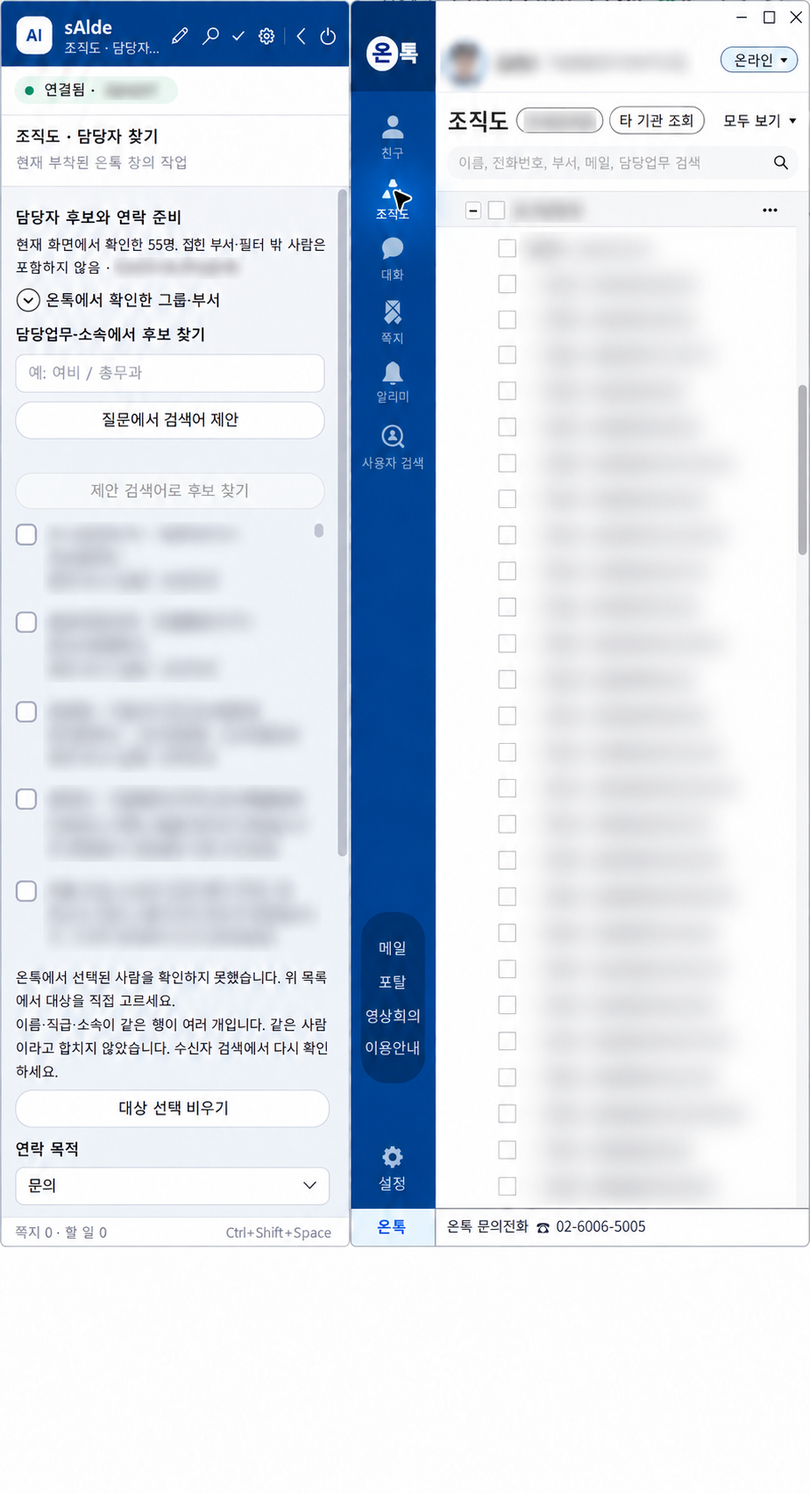
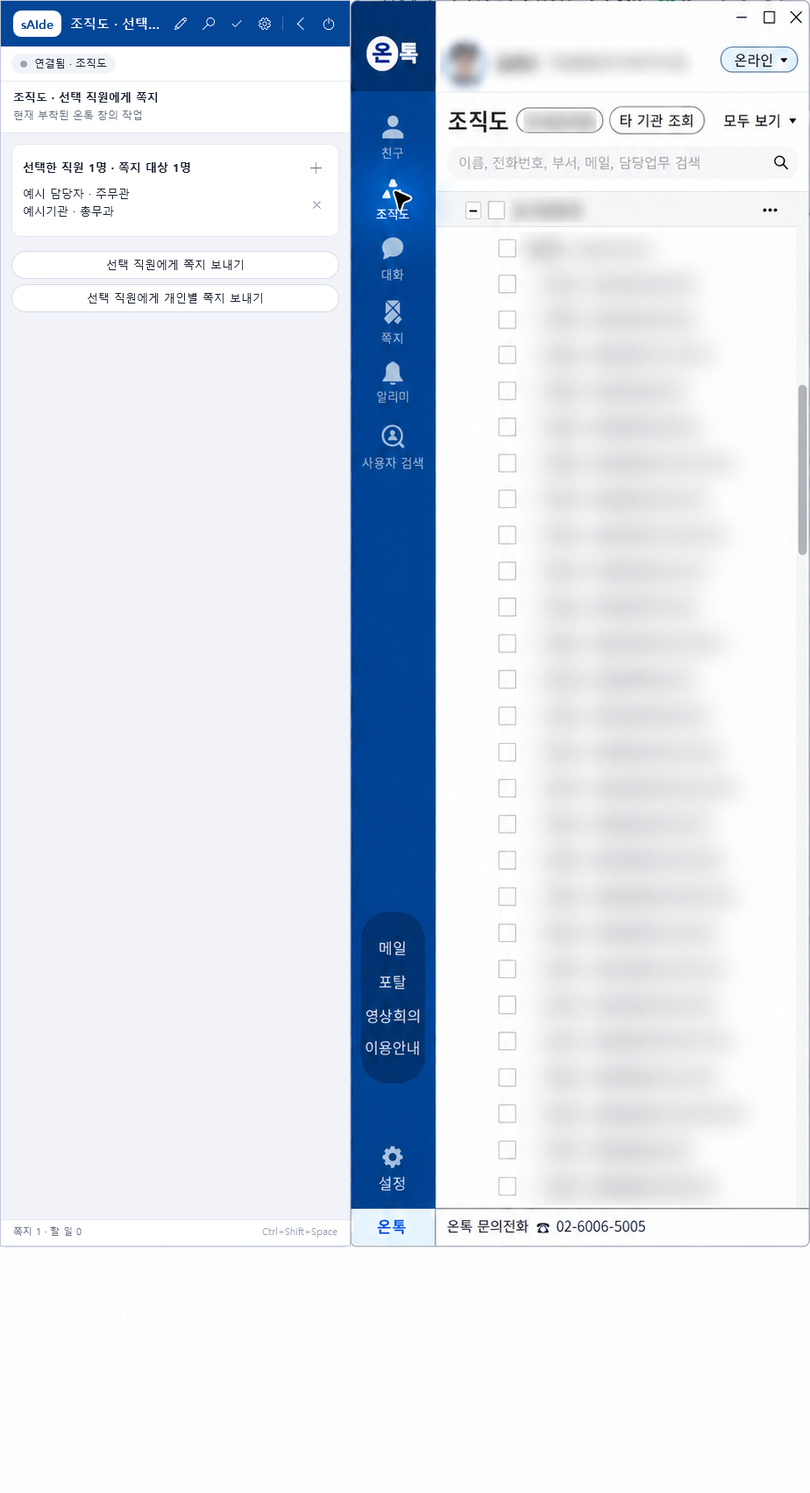
문서 및 스크린샷 최신화 (조직도 쪽지 및 개인화 작업 화면 반영, Home 개편 및 수치 현행화)

Changed region(s): [[0.0, 0.0, 0.4545, 0.8408], [0.2727, 0.8096, 0.3939, 0.8408], [0.2121, 0.2803, 0.2424, 0.3114]]

diff --git a/src/OnTalk.Sidecar.App/PanelWindow.xaml b/src/OnTalk.Sidecar.App/PanelWindow.xaml
@@ -1,7 +1,7 @@
 <Window x:Class="OnTalk.Sidecar.App.PanelWindow"
         xmlns="http://schemas.microsoft.com/winfx/2006/xaml/presentation"
         xmlns:x="http://schemas.microsoft.com/winfx/2006/xaml"
-        Title="onTalk.sAIde" Width="360" Height="640" MinWidth="44" MinHeight="180"
+        Title="onTalk.sAIde" Width="360" Height="640" MinWidth="64" MinHeight="180"
         WindowStyle="None" ResizeMode="NoResize" ShowInTaskbar="False" ShowActivated="False"
         WindowStartupLocation="Manual" Style="{StaticResource AppWindow}">
     <Window.Resources>
@@ -45,10 +45,10 @@
             </ContextMenu>
         </Border.ContextMenu>
         <StackPanel Margin="0,10,0,0" HorizontalAlignment="Center">
-            <Button Width="34" Height="34" Margin="0,0,0,14" Click="OnExpand" ToolTip="패널 펼치기 · Ctrl+Shift+Space"
+            <Button Width="52" Height="30" Margin="0,0,0,14" Click="OnExpand" ToolTip="패널 펼치기 · Ctrl+Shift+Space"
                     Style="{StaticResource OnNavyIconButton}" Background="White">
-                <TextBlock Text="AI" FontFamily="Malgun Gothic" FontWeight="ExtraBold" FontSize="13"
-                           Foreground="{StaticResource Navy}" />
+                <TextBlock FontFamily="Malgun Gothic" FontWeight="ExtraBold" FontSize="14"
+                           Foreground="{StaticResource Navy}"><Run Text="s" /><Run Text="AI" Foreground="{StaticResource Accent}" /><Run Text="de" /></TextBlock>
             </Button>
             <Button x:Name="RailSearchButton" Content="&#xE721;" Style="{StaticResource RailButton}"
                     Click="OnOpenSearch" IsEnabled="False" ToolTip="검색" />
@@ -85,17 +85,19 @@
                     <Button Content="&#xE7E8;" Style="{StaticResource OnNavyIconButton}" Click="OnExit"
                             ToolTip="onTalk.sAIde 끝내기 (온톡은 그대로 둡니다)" />
                 </StackPanel>
-                <StackPanel Orientation="Horizontal" VerticalAlignment="Center">
-                    <Border Background="White" CornerRadius="9" Width="30" Height="30" Margin="0,0,10,0">
-                        <TextBlock Text="AI" Foreground="{StaticResource Navy}" FontWeight="ExtraBold" FontSize="13"
-                                   HorizontalAlignment="Center" VerticalAlignment="Center" />
+                <Grid VerticalAlignment="Center">
+                    <Grid.ColumnDefinitions>
+                        <ColumnDefinition Width="Auto" />
+                        <ColumnDefinition Width="*" />
+                    </Grid.ColumnDefinitions>
+                    <Border Background="White" CornerRadius="8" Width="52" Height="30" Margin="0,0,10,0">
+                        <TextBlock Foreground="{StaticResource Navy}" FontWeight="ExtraBold" FontSize="14"
+                                   HorizontalAlignment="Center" VerticalAlignment="Center"><Run Text="s" /><Run Text="AI" Foreground="{StaticResource Accent}" /><Run Text="de" /></TextBlock>
                     </Border>
-                    <StackPanel VerticalAlignment="Center">
-                        <TextBlock Text="sAIde" Foreground="White" FontWeight="Bold" FontSize="15" />
-                        <TextBlock x:Name="WindowSubtitle" Text="온톡 작업 도우미" Foreground="{StaticResource OnNavyMuted}" FontSize="11"
-                                   MaxWidth="92" TextTrimming="CharacterEllipsis" ToolTip="{Binding Text, RelativeSource={RelativeSource Self}}" />
-                    </StackPanel>
-                </StackPanel>
+                    <TextBlock Grid.Column="1" x:Name="WindowSubtitle" Text="온톡 작업 도우미" Foreground="White"
+                               FontWeight="Bold" FontSize="15" VerticalAlignment="Center"
+                               TextTrimming="CharacterEllipsis" ToolTip="{Binding Text, RelativeSource={RelativeSource Self}}" />
+                </Grid>
             </DockPanel>
         </Border>
 

diff --git a/src/OnTalk.Sidecar.App/PersonalizedWindow.cs b/src/OnTalk.Sidecar.App/PersonalizedWindow.cs
@@ -60,6 +60,9 @@ public sealed class PersonalizedWindow : Window
     private CancellationTokenSource? _batchCts;
     private PersonalizedWorkItem? _shown;
     private bool _closed;
+    private readonly StackPanel _savedBody = new();
+    private readonly TextBlock _savedChevron = new(), _savedCount = new();
+    private bool _savedExpanded;
     private readonly Dictionary<string, (TextBlock Count, ProgressBar Bar)> _headerCounters = [];
     private string _cleanSnapshot = "";
 
@@ -127,6 +130,7 @@ public sealed class PersonalizedWindow : Window
         Closing += (_, e) => { if (!_closed && !ConfirmLeave("개인별 쪽지 닫기", "닫습니다.")) e.Cancel = true; };
         Closed += (_, _) => { _batchCts?.Cancel(); _closed = true; };
         Load();
+        SetSavedExpanded(_saved.Items.Count > 0);   // 저장한 작업이 없으면 접어 둔다.
     }
 
     // ───────────────────────── 화면 구성 ─────────────────────────
@@ -288,6 +292,25 @@ public sealed class PersonalizedWindow : Window
             if (right is FrameworkElement fe) { fe.VerticalAlignment = VerticalAlignment.Top; fe.Margin = new Thickness(12, fe is Button ? 0 : 4, 0, 0); }
             Grid.SetColumn(right, 2); head.Children.Add(right);
         }
+        // 모든 구역은 접고 펼 수 있다(기본은 펼침). 오른쪽 화살표 단추나 제목 글을 누르면 바뀐다.
+        head.ColumnDefinitions.Add(new ColumnDefinition { Width = GridLength.Auto });
+        var chevron = new Button
+        {
+            Content = "", Style = Res<Style>("IconButton"), Width = 28, Height = 28, FontSize = 11, ToolTip = "접기/펼치기",
+            Margin = new Thickness(8, 0, 0, 0), VerticalAlignment = VerticalAlignment.Top,
+        };
+        chevron.AutomationName(title + " 접기 또는 펼치기");
+        void Toggle()
+        {
+            var open = body.Visibility != Visibility.Visible;
+            body.Visibility = open ? Visibility.Visible : Visibility.Collapsed;
+            chevron.Content = open ? "" : "";
+            head.Margin = new Thickness(0, 0, 0, open ? 12 : 0);
+        }
+        chevron.Click += (_, _) => Toggle();
+        texts.Background = Brushes.Transparent; texts.Cursor = System.Windows.Input.Cursors.Hand;
+        texts.MouseLeftButtonUp += (_, _) => Toggle();
+        Grid.SetColumn(chevron, 3); head.Children.Add(chevron);
         var stack = new StackPanel();
         stack.Children.Add(head); stack.Children.Add(body);
         return new Border { Style = Res<Style>("Card"), Padding = new Thickness(18, 16, 18, 16), Margin = new Thickness(0, 0, 0, 12), Child = stack };
@@ -301,17 +324,30 @@ public sealed class PersonalizedWindow : Window
 
     private UIElement BuildHeader()
     {
-        var body = new StackPanel();
-        body.Children.Add(new TextBlock { Text = "개인별 쪽지", Style = Res<Style>("PageTitle"), VerticalAlignment = VerticalAlignment.Center });
+        var page = new StackPanel();
+        page.Children.Add(new TextBlock { Text = "개인별 쪽지", Style = Res<Style>("PageTitle"), VerticalAlignment = VerticalAlignment.Center, Margin = new Thickness(2, 0, 0, 12) });
 
-        var saved = new Grid { Margin = new Thickness(0, 14, 0, 0) };
-        saved.ColumnDefinitions.Add(new ColumnDefinition { Width = GridLength.Auto });
+        // ‘저장한 작업’은 제목과 떼어 접고 펼 수 있는 따로의 구역으로 둔다.
+        var toggleContent = new StackPanel { Orientation = Orientation.Horizontal };
+        _savedChevron.FontFamily = (FontFamily)FindResource("IconFont"); _savedChevron.FontSize = 11; _savedChevron.VerticalAlignment = VerticalAlignment.Center; _savedChevron.Margin = new Thickness(0, 0, 8, 0);
+        toggleContent.Children.Add(_savedChevron);
+        toggleContent.Children.Add(new TextBlock { Text = "저장한 작업", FontWeight = FontWeights.Bold, FontSize = 14, VerticalAlignment = VerticalAlignment.Center });
+        _savedCount.Foreground = Res<Brush>("Muted"); _savedCount.FontSize = 12; _savedCount.VerticalAlignment = VerticalAlignment.Center; _savedCount.Margin = new Thickness(8, 0, 0, 0);
+        toggleContent.Children.Add(_savedCount);
+        var toggle = new Button
+        {
+            Content = toggleContent, Style = Res<Style>("LinkButton"), Foreground = Res<Brush>("TextStrong"), HorizontalAlignment = HorizontalAlignment.Left,
+            Padding = new Thickness(0), ToolTip = "저장한 작업 목록 접기/펼치기",
+        };
+        toggle.AutomationName("저장한 작업 접기 또는 펼치기");
+        toggle.Click += (_, _) => SetSavedExpanded(!_savedExpanded);
+
+        var saved = new Grid { Margin = new Thickness(0, 12, 0, 0) };
         saved.ColumnDefinitions.Add(new ColumnDefinition { Width = new GridLength(1, GridUnitType.Star) });
         saved.ColumnDefinitions.Add(new ColumnDefinition { Width = GridLength.Auto });
         saved.ColumnDefinitions.Add(new ColumnDefinition { Width = GridLength.Auto });
         saved.ColumnDefinitions.Add(new ColumnDefinition { Width = GridLength.Auto });
-        var label = FieldLabel("저장한 작업"); saved.Children.Add(label);
-        Grid.SetColumn(_saved, 1); _saved.Margin = new Thickness(0, 0, 8, 0); saved.Children.Add(_saved);
+        _saved.Margin = new Thickness(0, 0, 8, 0); saved.Children.Add(_saved);
         var load = SmallBtn("불러오기", (_, _) =>
         {
             if (_saved.SelectedItem is not PersonalizedWork work) { _status.Text = "불러올 저장 작업을 목록에서 먼저 고르세요."; return; }
@@ -320,7 +356,7 @@ public sealed class PersonalizedWindow : Window
             _work = fresh; _shown = null; Load();
             _status.Text = "저장한 작업을 불러왔습니다.";
         }, "고른 저장 작업으로 이 창의 내용을 바꿉니다. 저장하지 않은 변경이 있으면 먼저 저장할지 묻습니다.");
-        Grid.SetColumn(load, 2); saved.Children.Add(load);
+        Grid.SetColumn(load, 1); saved.Children.Add(load);
         var delete = SmallBtn("현재 작업 삭제", (_, _) =>
         {
             if (Dialogs.Show(this, "저장한 개인화 작업과 입력 데이터·본문을 삭제할까요? 발송 기록은 유지됩니다.", "개인화 작업 삭제", MessageBoxButton.OKCancel) != MessageBoxResult.OK) return;
@@ -329,11 +365,21 @@ public sealed class PersonalizedWindow : Window
         delete.Style = Res<Style>("DangerButton"); delete.MinHeight = 26; delete.Padding = new Thickness(10, 0, 10, 0); delete.FontSize = 12; delete.Margin = new Thickness(0);
         var clean = SmallBtn("표시 없는 작업 정리", (_, _) => CleanUnmarkedWorks(),
             "‘임시 저장’ 표시도 발송 기록도 없는 저장 작업(이전 버전이 창을 닫을 때 자동 저장한 것 등)을 한꺼번에 지웁니다.");
-        Grid.SetColumn(clean, 3); saved.Children.Add(clean);
-        Grid.SetColumn(delete, 4); saved.Children.Add(delete);
-        body.Children.Add(saved);
-        body.Children.Add(_savedInfo);
-        return new Border { Style = Res<Style>("Card"), Padding = new Thickness(18, 16, 18, 14), Margin = new Thickness(0, 0, 0, 12), Child = body };
+        Grid.SetColumn(clean, 2); saved.Children.Add(clean);
+        Grid.SetColumn(delete, 3); saved.Children.Add(delete);
+        _savedBody.Children.Add(saved);
+        _savedBody.Children.Add(_savedInfo);
+        var section = new StackPanel();
+        section.Children.Add(toggle); section.Children.Add(_savedBody);
+        page.Children.Add(new Border { Style = Res<Style>("Card"), Padding = new Thickness(18, 12, 18, 12), Margin = new Thickness(0, 0, 0, 12), Child = section });
+        return page;
+    }
+
+    private void SetSavedExpanded(bool expanded)
+    {
+        _savedExpanded = expanded;
+        _savedBody.Visibility = expanded ? Visibility.Visible : Visibility.Collapsed;
+        _savedChevron.Text = expanded ? "" : "";
     }
 
     private UIElement BuildTemplateSection()
@@ -1165,6 +1211,7 @@ public sealed class PersonalizedWindow : Window
     {
         var works = _store.GetPersonalizedWorks();
         _saved.ItemsSource = works;
+        _savedCount.Text = works.Count == 0 ? "없음" : $"{works.Count}개";
         _saved.SelectedItem = works.FirstOrDefault(w => w.Id == _work.Id);
         _savedInfo.Text = works.Count == 0
             ? "아직 저장한 작업이 없습니다. 작업은 ‘임시 저장’을 누르거나 발송할 때만 저장됩니다."

diff --git a/tools/OnTalk.ContextPreview/Program.cs b/tools/OnTalk.ContextPreview/Program.cs
@@ -106,6 +106,15 @@ internal static class Program
                 throw new InvalidOperationException("Home·부서 선택 문맥이 표시되지 않았습니다.");
             Render((FrameworkElement)panel.Content,Path.Combine(output,name+".png"),360,800);
             Render((FrameworkElement)panel.Content,Path.Combine(output,name+"-short.png"),360,480);
+            if (name == "organization-person")
+            {
+                var statusText = (TextBlock)panel.FindName("StatusText");
+                var origStatus = statusText.Text;
+                statusText.Text = "연결됨 · 조직도";
+                Invoke(panel, "UpdateFooter");
+                Render((FrameworkElement)panel.Content, Path.Combine(output, "organization-panel-tall.png"), 400, 1421);
+                statusText.Text = origStatus;
+            }
         }
         ContactPreparation? prepared = null; var personalizeRequested = false;
         using var contacts = new PeoplePane((p, personalize) => { prepared = p; personalizeRequested = personalize; });

diff --git a/src/OnTalk.Sidecar.App/PanelWindow.xaml.cs b/src/OnTalk.Sidecar.App/PanelWindow.xaml.cs
@@ -19,7 +19,7 @@ public partial class PanelWindow : Window
     private const double PanelWidthDip = 360;
     private const double PanelHeightDip = 640;
     private const double PanelMinHeightDip = 380;
-    private const double RailWidthDip = 44;
+    private const double RailWidthDip = 64;
     private const double RailHeightDip = 180;
     // 접힌 도구를 온톡 창 위에 겹쳐 놓을 때 온톡의 창 단추를 가리지 않도록 내려 놓는 거리.
     private const double RailOverlapInsetDip = 96;

diff --git a/docs/organization-personalized-notes.md b/docs/organization-personalized-notes.md
@@ -1,17 +1,26 @@
 # 조직도 쪽지 · 2026-10-17 개발 구현
 
+![온톡 조직도 사이드카, 개인정보 흐림 처리](images/organization-main.png)
+
 ## 사용 순서
 
 1. 온톡 조직도에서 직원이나 부서를 선택한다. 사이드카가 읽은 선택 직원이 목록에 나타난다. 접힌 부서와 읽히지 않은 구성원은 포함하지 않는다. 체크 상태는 온톡 화면 요소의 CSS 클래스(IAccessible2)로 읽는다. 그래도 인식되지 않는 화면에서는 `온톡 선택이 표시되지 않으면 직접 고르기`에서 읽은 직원을 체크한다.
-2. 목록에서 보내지 않을 사람을 `제외`한다. 온톡의 선택이 바뀌면 제외 표시는 초기화한다. 표시 정보가 같은 중복 행은 임의로 합치지 않는다.
-3. 동일 본문을 보낼 때는 `선택 직원에게 같은 쪽지 보내기`로 작성 도우미를 연다. `선택 대상 모두 수신자로 추가`를 누르면 열려 있는 빈 `새 쪽지` 창을 찾거나 온톡 본창에서 자동으로 새 쪽지 창을 열어, 이름·직급·조직의 전체 단위가 유일하게 일치한 사람만 순서대로 추가한다.
-4. 사람마다 다른 내용이면 `선택 직원에게 개인별 쪽지 보내기`를 누른다. 작성 도우미를 거치지 않고 `개인별 쪽지 · 작성과 미리보기` 창이 바로 열리며, 53명 각 개인에 대한 온톡 쪽지 창을 수동으로 열거나 `반영할 온톡 창`에서 일일이 지정할 필요가 없다.
+2. 목록에서 보내지 않을 사람을 `제외(X 아이콘)`한다. 온톡의 선택이 바뀌면 제외 표시는 초기화한다. 추가할 직원이 있으면 우측 상단 `직원 추가(+)`로 검색해 넣는다. 표시 정보가 같은 중복 행은 임의로 합치지 않는다.
+3. 동일 본문을 보낼 때는 `선택 직원에게 같은 쪽지 보내기`로 작성 도우미를 연다. `조직도 선택 대상 모두 넣기`를 누르면 열려 있는 빈 `새 쪽지` 창을 찾거나 온톡 본창에서 자동으로 새 쪽지 창을 열어, 이름·직급·조직의 전체 단위가 유일하게 일치한 사람만 순서대로 추가한다. 본문을 쓰고 예약 전송을 설정한 뒤 전송 확인 창에서 승인한다.
+
+![조직도 선택 직원에게 쪽지 보내기 도우미](images/prepared-contact-compose.png)
+
+4. 사람마다 다른 내용이면 `선택 직원에게 개인별 쪽지 보내기`를 누른다. 작성 도우미를 거치지 않고 `개인별 쪽지 · 작성과 미리보기` 창이 바로 열리며, 여러 명 각 개인에 대한 온톡 쪽지 창을 수동으로 열거나 `반영할 온톡 창`에서 일일이 지정할 필요 없이 자동 연속 발송할 수 있다.
 
 제거한 기능: 담당업무·소속 글자 검색, AI 검색어 제안, 부서 범위 선택, 연락 목적별 초안, 연락 준비 그룹 저장·불러오기, 사람 상세·보관 쪽지 후보와 직접 연결. 저장소의 `contact_preparation_group` 테이블은 기존 DB 호환을 위해 남기며 더 이상 읽거나 쓰지 않는다.
 
 ## 개인별 내용 및 자동 연속 발송
 
-`개인별 쪽지 · 작성과 미리보기` 창은 작업 단위별 카드로 나뉜다. 위에서부터 `저장한 작업`(목록의 각 줄에 서식 제목과 발송 대상 인원수, 삭제용 `X` 단추가 있어 고른 작업을 바꾸지 않고 불러오기 전에도 바로 지울 수 있다. 열려 있는 작업을 지우면 창도 닫힌다), `① 서식`(저장된 서식 선택·서식 제목·서식 내용·변수 삽입 단추), `② 대상자와 개인별 데이터`(표·CSV/XLSX 가져오기·준비/발송 인원 요약), `③ 본문 확인과 수정`(선택한 사람의 본문·Bytes 수·이전/다음 사람 이동), `④ 발송 방식`(즉시 또는 예약)이며, 발송·중단·임시 저장 단추와 진행 상황은 창 아래에 항상 고정되어 보인다. 서식은 제목과 내용을 따로 저장하며 저장한 서식은 제목 목록에서 골라 불러온다(작성 도우미의 서식과 같은 저장소를 쓴다). ②의 표에는 별도의 처리 상태 열이 없다. 값이 비어 있는 항목 칸은 연한 붉은 바탕에 회색 `입력 필요 (F2 or 더블클릭)`로 보이고, 값이 있으면 값만 보인다. 항목 열 제목 옆에는 입력 현황(예: `3/53`)과 작은 진행 막대가 표시되며 모두 채우면 초록색이 된다. 발송 시도·보류·작성 중인 줄은 처리 상태에 따라 칸 바탕색만 바뀐다(초록 완료 · 주황 확인 필요 · 빨강 오류). 자세한 처리 상태는 줄에 마우스를 올리거나 ③의 선택 정보 줄에서 본다. 표 사용법은 ② 카드 오른쪽 위의 책 아이콘을 누르면 안내 풍선으로 볼 수 있다. 작업은 자동으로 저장하지 않는다. 저장소에 기록되는 때는 `임시 저장` 단추(Ctrl+S)를 누를 때와 발송할 때뿐이며, 저장하지 않은 변경이 있는 채 창을 닫거나 다른 저장 작업을 불러오려 하면 임시 저장할지 묻는다(예: 저장하고 진행 / 아니오: 저장하지 않고 진행 / 취소). `저장한 작업` 목록에서 사용자가 `임시 저장`으로 저장했고 아직 발송을 시도하지 않은 작업에는 `임시 저장` 태그가 붙는다(작업에 임시 저장 표시를 따로 기록한다). 모든 대상의 발송·예약이 끝난 작업에는 초록 `발송 완료` 태그가, 발송을 시도했지만 아직 끝나지 않은 작업(보류·결과 불명·미진행 대상이 있는 경우)에는 주황 `일부 발송` 태그가 붙는다. 발송 도중 남은 저장과 이전 버전이 창을 닫을 때 자동 저장한 작업에는 태그가 없으며, `표시 없는 작업 정리` 단추로 임시 저장 표시도 발송 기록도 없는 작업을 확인 후 한꺼번에 지울 수 있다. 각 줄에는 서식 제목과 발송 대상 인원수가 보인다. 저장한 서식을 불러오면 항목 구성도 서식에 맞춘다: 서식에 쓰인 변수는 항목으로 추가되고, 서식에 없으면서 입력한 값도 없는 항목(기본으로 만들어 둔 `항목` 등)은 지워진다. 값이 들어 있는 항목은 데이터 보호를 위해 남기며 서식에 넣으라는 경고가 표시된다. 서식에 새로 쓴 `{변수}`는 본문 생성 때 ②의 입력 열로 자동 추가된다.
+![개인별 쪽지 작성과 미리보기 전체 화면](images/personalized-notes-full.png)
+
+`개인별 쪽지 · 작성과 미리보기` 창은 작업 단위별 카드로 나뉜다. 모든 구역(①~④)은 제목 줄 오른쪽 화살표나 제목을 눌러 접고 펼 수 있으며 기본은 펼친 상태다. 위에서부터 제목 `개인별 쪽지`, 접고 펼 수 있는 `저장한 작업` 구역(저장한 작업이 없으면 접힌 채로, 있으면 펼친 채로 열린다. 목록의 각 줄에 서식 제목과 발송 대상 인원수, 삭제용 `X` 단추가 있어 고른 작업을 바꾸지 않고 불러오기 전에도 바로 지울 수 있다. 열려 있는 작업을 지우면 창도 닫힌다), `① 서식`(저장된 서식 선택·서식 제목·서식 내용·변수 삽입 단추), `② 대상자와 개인별 데이터`(표·CSV/XLSX 가져오기·준비/발송 인원 요약), `③ 본문 확인과 수정`(선택한 사람의 본문·Bytes 수·이전/다음 사람 이동), `④ 발송 방식`(즉시 또는 예약)이며, 발송·중단·임시 저장 단추와 진행 상황은 창 아래에 항상 고정되어 보인다. 서식은 제목과 내용을 따로 저장하며 저장한 서식은 제목 목록에서 골라 불러온다(작성 도우미의 서식과 같은 저장소를 쓴다). ②의 표에는 별도의 처리 상태 열이 없다. 값이 비어 있는 항목 칸은 연한 붉은 바탕에 회색 `입력 필요 (F2 or 더블클릭)`로 보이고, 값이 있으면 값만 보인다. 항목 열 제목 옆에는 입력 현황(예: `3/53`)과 작은 진행 막대가 표시되며 모두 채우면 초록색이 된다. 발송 시도·보류·작성 중인 줄은 처리 상태에 따라 칸 바탕색만 바뀐다(초록 완료 · 주황 확인 필요 · 빨강 오류). 자세한 처리 상태는 줄에 마우스를 올리거나 ③의 선택 정보 줄에서 본다. 표 사용법은 ② 카드 오른쪽 위의 책 아이콘을 누르면 안내 풍선으로 볼 수 있다. 작업은 자동으로 저장하지 않는다. 저장소에 기록되는 때는 `임시 저장` 단추(Ctrl+S)를 누를 때와 발송할 때뿐이며, 저장하지 않은 변경이 있는 채 창을 닫거나 다른 저장 작업을 불러오려 하면 임시 저장할지 묻는다(예: 저장하고 진행 / 아니오: 저장하지 않고 진행 / 취소). `저장한 작업` 목록에서 사용자가 `임시 저장`으로 저장했고 아직 발송을 시도하지 않은 작업에는 `임시 저장` 태그가 붙는다(작업에 임시 저장 표시를 따로 기록한다). 모든 대상의 발송·예약이 끝난 작업에는 초록 `발송 완료` 태그가, 발송을 시도했지만 아직 끝나지 않은 작업(보류·결과 불명·미진행 대상이 있는 경우)에는 주황 `일부 발송` 태그가 붙는다. 발송 도중 남은 저장과 이전 버전이 창을 닫을 때 자동 저장한 작업에는 태그가 없으며, `표시 없는 작업 정리` 단추로 임시 저장 표시도 발송 기록도 없는 작업을 확인 후 한꺼번에 지울 수 있다. 각 줄에는 서식 제목과 발송 대상 인원수가 보인다. 저장한 서식을 불러오면 항목 구성도 서식에 맞춘다: 서식에 쓰인 변수는 항목으로 추가되고, 서식에 없으면서 입력한 값도 없는 항목(기본으로 만들어 둔 `항목` 등)은 지워진다. 값이 들어 있는 항목은 데이터 보호를 위해 남기며 서식에 넣으라는 경고가 표시된다. 서식에 새로 쓴 `{변수}`는 본문 생성 때 ②의 입력 열로 자동 추가된다.
+
+![저장한 작업 태그 구분](images/personalized-saved-tags.png)
 
 항목(사람마다 다른 값을 넣는 열)는 ②에서 관리한다. `＋ 항목 추가`로 열을 늘리고, 열 머리의 `✎`로 제목을 바꾸며(서식의 `{제목}`과 사람별 값도 함께 따라간다), `✕`로 열을 지운다(서식의 변수도 함께 지워지며 최소 한 개는 남는다). 이름·소속·직급과 같은 제목, 중복 제목, 중괄호가 든 제목은 쓸 수 없다. 항목은 서식의 필수 항목이라 ①에서 모두 `{항목}` 형태로 서식 내용에 들어 있어야 하며, 빠진 것이 있으면 ①에 주황색 경고가 보이고 서식 저장·본문 생성·준비·발송을 막는다. ①의 `변수 삽입` 줄에는 항목 개수만큼 단추가 생기며 누르면 서식 입력칸의 커서 위치에 들어간다(서식에 들어 있는 것은 ✓ 표시).
 
@@ -41,4 +50,3 @@
 ## 검증
 
 개인별 치환·사실값 보존·미완성 변수·바이트 한도·조직명 대조·계정 격리·작업 복구·오래된 저장의 발송 기록 보존·자동 연속 발송(순차 발송, 동명이인 보류 후 계속 진행, 예약 시각 적용, 창 미닫힘 시 중단 및 중복 발송 차단)을 자동 테스트한다. 합성 WPF 검증에 개인별 본문 생성·개별 수정 유지·자동 연속 발송·일반/작은 화면 렌더링을 포함했다.
-

diff --git a/README.md b/README.md
@@ -1,4 +1,4 @@
-# onTalk.sAIde 사용자 매뉴얼
+# onTalk.sAIde 사용자 매뉴얼
 
 온톡에서 지금 하는 일에 맞춰 옆 패널이 바뀌는 Windows 업무 도우미입니다. Home(친구)에서는 친구·그룹별 업무 소통을 한눈에 보고, 조직도에서는 선택한 직원에게 쪽지를 보내며, 쪽지를 읽을 때는 내용과 할 일을 정리합니다. 쪽지 작성과 대화 답변에는 초안 편집과 로컬 AI 제안을 제공합니다.
 
@@ -98,6 +98,8 @@ ZIP의 **전체 압축을 풀고** 안의 `OnTalk.sAIde.exe`를 실행합니다.
 2. 보내지 않을 사람은 **제외(X 아이콘)** 단추로 제외합니다. 추가할 사람이 있거나 온톡이 선택 상태를 알려 주지 않으면 우측 상단 **직원 추가(+)** 단추를 눌러 읽은 직원 중에서 직접 검색하고 선택합니다.
 3. **선택 직원에게 쪽지 보내기**를 누르면 작성 도우미가 열립니다. 온톡에서 빈 새 쪽지 창을 열고 **반영할 온톡 창**에서 선택한 뒤 **조직도 선택 대상 모두 넣기**로 수신자를 넣습니다. 본문을 쓰고 **예약 전송**에서 날짜·시각을 **온톡에 설정**한 다음 **전송…**의 확인 창에서 승인합니다.
 4. 사람마다 내용이 다르면 **선택 직원에게 개인별 쪽지 보내기**를 누릅니다. **입력 양식 CSV 내보내기**로 받은 파일에 원하는 헤더(열)를 자유롭게 추가하고 사람별 데이터를 채운 뒤 **CSV · TSV · XLSX 데이터 가져오기**로 불러오면, `{이름}`, `{소속}`, `{직급}`과 함께 추가한 `{헤더명}` 변수를 서식에 그대로 적용해 개인별 본문을 생성·미리보기·수정합니다. 이름·소속·직급이 일치하지 않으면 가져오지 않으며, 개인별 발송은 한 건씩 수신자·본문·예약을 확인하며 진행합니다.
+
+![개인별 쪽지 작성과 미리보기 합성 예시](docs/images/personalized-notes.png)
 
 접힌 부서의 직원·읽히지 않은 직원은 대상에 없습니다. 동명이인은 이름·직급·소속을 함께 비교합니다. 자세한 순서는 [조직도 쪽지 안내](docs/organization-personalized-notes.md)를 참고하세요.
 
@@ -248,7 +250,7 @@ AI 요청은 `127.0.0.1:11434`로 제한하며 클라우드 모델로 원문을 
 
 ## 개발과 문서 안내
 
-최신 결과는 **테스트 313개 통과·합성 WPF 화면 72개·Release 오류·경고 0개**입니다. Home은 그룹·친구 필터, 대화 정리 연결, 360px 폭·낮은 높이·125/150% 렌더링으로 검증했습니다. 기존 실제 감시→파서 경로에서 친구·조직도·대화 목록·일대일/그룹 대화·로그인 전환·쪽지 메뉴를 확인했습니다. 새 Home과 조직도 개인별 발송의 실제 사용 수용 시험은 별도로 남아 있습니다.
+최신 결과는 **테스트 330개 통과·합성 WPF 화면 77개·Release 오류·경고 0개**입니다. Home은 그룹·친구 필터, 대화 정리 연결, 360px 폭·낮은 높이·125/150% 렌더링으로 검증했습니다. 기존 실제 감시→파서 경로에서 친구·조직도·대화 목록·일대일/그룹 대화·로그인 전환·쪽지 메뉴를 확인했습니다. 새 Home과 조직도 개인별 발송의 실제 사용 수용 시험은 별도로 남아 있습니다.
 
 ```powershell
 dotnet test tests/OnTalk.Sidecar.Tests -c Release
@@ -263,7 +265,7 @@ dotnet run --project tools/OnTalk.ContextPreview -c Release -- artifacts/context
 | 문서 | 내용 |
 |---|---|
 | [구현 현황](docs/implementation-status.md) | 현재 제공 기능·남은 작업 |
-| [조직도 쪽지 안내](docs/organization-personalized-notes.md) | 수신자 선택·개인별 평점 파일·발송 순서 |
+| [조직도 쪽지 안내](docs/organization-personalized-notes.md) | 수신자 선택·개인별 데이터(CSV/XLSX) 파일·발송 순서 |
 | [호환성](docs/compatibility-matrix.md) | 실제 확인·자동 시험·미확인 범위 |
 | [메뉴별 설계](docs/contextual-sidecar-design.md) | 역할·전체 목표 |
 | [1차](docs/contextual-sidecar-implementation.md) / [2차](docs/contextual-sidecar-phase2.md) / [3차](docs/contextual-sidecar-phase3.md) / [4차](docs/contextual-sidecar-phase4.md) | 당시 구현·시험과 후속 변경 |

diff --git a/docs/manual-images.md b/docs/manual-images.md
@@ -1,10 +1,10 @@
 # 사용자 매뉴얼 이미지 제작 기록
 
-갱신: 2026-10-06. [사용자 매뉴얼](../README.md)의 이미지 출처와 개인정보 처리 기준이다.
+갱신: 2026-10-17. [사용자 매뉴얼](../README.md)의 이미지 출처와 개인정보 처리 기준이다.
 
 ## 새 Home 화면
 
-`images/home-dashboard.png`는 `OnTalk.ContextPreview`가 가상 친구·쪽지·대화로 렌더링한 실제 WPF 패널이다. 온톡 창·사용자 이력·첨부의 직원 정보를 사용하지 않았으며 상태 표시에도 가상 자료임을 명시했다. 이전 `friends-main.png`는 연락 준비 중심의 과거 Home 화면 기록으로 유지한다.
+`images/home-dashboard.png`는 `OnTalk.ContextPreview`가 가상 친구·쪽지·대화로 렌더링한 실제 WPF 패널이다. 온톡 창·사용자 이력·첨부의 직원 정보를 사용하지 않았으며 상태 표시에도 가상 자료임을 명시했다. 상단 '체크한 친구와 함께(단체 대화/단체 쪽지)' 빠른 실행 및 3개 카드(최근 쪽지·최근 대화·최근 업무) 개편 화면을 반영했다. 이전 `friends-main.png`는 연락 준비 중심의 과거 Home 화면 기록으로 유지한다.
 
 ## 실제 메인 메뉴 화면
 
@@ -12,8 +12,9 @@
 
 | 파일 | 화면 |
 |---|---|
-| images/friends-main.png | 친구 메인·연락 준비 |
-| images/organization-main.png | 조직도 메인·담당자 후보 |
+| images/friends-main.png | 친구 메인·과거 연락 준비 (기록용) |
+| images/home-dashboard.png | Home 대시보드 (최신 그룹별 소통 정리) |
+| images/organization-main.png | 조직도 메인·선택 직원에게 쪽지 (개편된 선택 목록과 발송 버튼) |
 | images/conversations-main.png | 대화 목록·대화방 찾기 |
 | images/notes-main.png | 받은 쪽지 목록·쪽지 목록 지원 |
 
@@ -25,13 +26,17 @@
 
 ## 상세 작업의 합성 예시
 
-실제 개인 쪽지를 추가로 열거나 대화 내용을 보관하는 대신 tools/OnTalk.ContextPreview의 기존 가상 자료 WPF 캡처를 사용한다. 메인 화면과 함께 볼 수 있도록 개인정보 처리한 메인 이미지와 배치하고 ‘합성 예시’로 표시한다.
+실제 개인 쪽지를 추가로 열거나 대화 내용을 보관하는 대신 tools/OnTalk.ContextPreview의 가상 자료 WPF 캡처를 사용한다. 메인 화면과 함께 볼 수 있도록 개인정보 처리한 메인 이미지와 배치하거나 상세 화면 단위로 ‘합성 예시’로 표시한다.
 
 | 파일 | 가상 자료 화면과 주의점 |
 |---|---|
 | images/note-reading.png | 받은 쪽지 읽기 지원. 실제는 별도 상세창에 부착 |
 | images/note-writing.png | 새 쪽지 작성 지원. 실제는 별도 작성창에 부착 |
 | images/chat-support.png | 대화 원문 선택·답변 복사. 실제는 별도 대화창에 부착 |
+| images/prepared-contact-compose.png | 조직도 선택 직원 대상 쪽지 작성 도우미 (수신자 일괄 추가·예약·개인별 쪽지 전환) |
+| images/personalized-notes.png | 개인별 쪽지 작성과 미리보기 창 (서식·사용자정의 헤더/표·치환 미리보기·예약) |
+| images/personalized-notes-full.png | 개인별 쪽지 전체 작업 카드 (저장 작업·서식·데이터·본문 확인·발송 방식·연속 발송) |
+| images/personalized-saved-tags.png | 개인별 쪽지 저장한 작업의 상태 태그 (임시 저장·발송 완료·일부 발송) |
 
 실제 메인 화면과 합성 상세 패널을 함께 배치한 그림은 한 시점의 실제 부착 상태를 뜻하지 않는다. 미검증 대화 입력 반영 화면을 현재 제품 사용법의 예시로 넣지 않는다.
 

diff --git a/docs/concept-and-plan.md b/docs/concept-and-plan.md
@@ -1,10 +1,10 @@
-# onTalk.sAIde 컨셉과 구현 계획
+# onTalk.sAIde 컨셉과 구현 계획
 
-## 최신 반영 사항 · 2026-10-06
+## 최신 반영 사항 · 2026-10-17
 
-현재 컨셉은 쪽지뿐 아니라 현재 창·메뉴·작업에 맞춰 지원하는 사이드카다. 친구(Home)는 [친구·그룹별 업무 소통 대시보드](home-dashboard.md), 조직도는 근거 있는 후보 찾기, 대화는 선택 원문 정리·답변·업무, 쪽지는 읽기/작성 분리로 제공한다. 쪽지 메뉴의 실제 /notes 경로와 받은·보낸·보관 쪽지 탭 감지를 보완했다. 자연어 검색은 AI 검색어 제안→사용자 검토→실제 글자 일치로 처리한다. 아래 연락 준비 중심의 친구 설계는 과거 방향이다.
+현재 컨셉은 쪽지뿐 아니라 현재 창·메뉴·작업에 맞춰 지원하는 사이드카다. 친구(Home)는 [친구·그룹별 업무 소통 대시보드](home-dashboard.md), 조직도는 [선택 직원 대상 일반/개인별 쪽지 발송](organization-personalized-notes.md), 대화는 선택 원문 정리·답변·업무, 쪽지는 읽기/작성 분리로 제공한다. 쪽지 메뉴의 실제 /notes 경로와 받은·보낸·보관 쪽지 탭 감지를 보완했다. 최신 개발 소스는 저장소 스키마 10이며 최신 자동 테스트는 330개 통과, 합성 WPF 검사는 77개 화면, Release 빌드는 오류·경고 0개다.
 
-현재 사용법은 [사용자 매뉴얼](../README.md), 기능별 확인 수준은 [구현 현황](implementation-status.md)과 [호환성 표](compatibility-matrix.md)를 기준으로 읽는다. 최신 개발 소스는 저장소 스키마 9이며 기존 0.3.1 배포 ZIP은 재생성하지 않았다. 최신 자동 테스트는 292개 통과, 합성 WPF 검사는 70개 화면, Release 빌드는 오류·경고 0개다. 대화 입력 직접 반영은 실제 미검증으로 제품에 노출하지 않고 초안 복사를 제공한다.
+현재 사용법은 [사용자 매뉴얼](../README.md), 기능별 확인 수준은 [구현 현황](implementation-status.md)과 [호환성 표](compatibility-matrix.md)를 기준으로 읽는다. 대화 입력 직접 반영은 실제 미검증으로 제품에 노출하지 않고 초안 복사를 제공한다.
 
 - 작성일: 2026-10-03, Asia/Seoul
 - 근거: [설계서](design-and-implementation-plan.md), [계획 검토](plan-review.md), [현재 구현 현황과 초기 기록](implementation-status.md), [연동 검증 결과](feasibility-results.md)

diff --git a/docs/home-dashboard.md b/docs/home-dashboard.md
@@ -1,4 +1,4 @@
-# Home 재설계: 친구·그룹별 업무 소통
+# Home 재설계: 친구·그룹별 업무 소통
 
 2026-10-17 갱신, Asia/Seoul. 현재 개발 소스의 Home은 이 문서를 기준으로 한다. 기존 연락 준비 및 7개 영역 대시보드 설계를 대체해 핵심 3가지 영역으로 집중했다.
 
@@ -39,6 +39,6 @@ Home 대화 연결을 모두 해제하면 해당 Home 정리와 보관 원문을
 
 ## 확인한 범위
 
-그룹 발송 이력 집계 테스트를 포함해 전체 단위 테스트 304개 통과. 동명이인·중복 원문·서울 날짜 경계·기간 밖 열린 업무·대화 출처·계정 격리·재시작·연결 해제·이전 스키마 마이그레이션·암호화 백업 복구를 검사했다.
+그룹 발송 이력 집계 테스트를 포함해 전체 단위 테스트 330개 통과. 동명이인·중복 원문·서울 날짜 경계·기간 밖 열린 업무·대화 출처·계정 격리·재시작·연결 해제·이전 스키마 마이그레이션·암호화 백업 복구를 검사했다.
 
-합성 WPF 전체 72개 화면 중 Home은 전체·그룹·친구·빈 상태·480px 높이·125/150% 렌더를 포함한다. 대화 정리→친구 선택→Home 연결 및 선택 변경 후 연결 제안 만료도 검사한다. 이미지는 가상 자료이며 실제 온톡 사용자의 이력이 아니다. 새 Home의 실제 온톡 수용·키보드 사용성·실제 배율 도킹 검증은 남아 있다.
+합성 WPF 전체 77개 화면 중 Home은 전체·그룹·친구·빈 상태·480px 높이·125/150% 렌더를 포함한다. 대화 정리→친구 선택→Home 연결 및 선택 변경 후 연결 제안 만료도 검사한다. 이미지는 가상 자료이며 실제 온톡 사용자의 이력이 아니다. 새 Home의 실제 온톡 수용·키보드 사용성·실제 배율 도킹 검증은 남아 있다.

diff --git a/docs/compatibility-matrix.md b/docs/compatibility-matrix.md
@@ -1,4 +1,4 @@
-# 호환성과 기능별 지원 상태
+# 호환성과 기능별 지원 상태
 
 갱신: 2026-10-17. 기존 실제 확인은 온톡 5.4.3(Electron 7.3.3/Chromium 78), Windows 11 Pro, 배율 100% 기준이며 새 Home과 조직도 개인화 작업은 합성 WPF·자동 시험으로 검증했다. 현재 배포 버전은 0.3.3이다. [사용법](../README.md), [실제 확인 기록](contextual-sidecar-phase4.md), [조직도 쪽지 안내](organization-personalized-notes.md)를 함께 읽는다.
 
@@ -46,4 +46,4 @@
 
 ## 검증·배포 기준
 
-308개 테스트, 합성 WPF 72개, Release 오류·경고 0개. 4차 최초 276개, 후속 쪽지 수정 286개, Home 재설계 292개, 조직도 개인별 쪽지 및 Home 3카드 개편 308개 결과를 구분한다. README의 Home 이미지는 가상 자료의 실제 WPF 렌더이며 기존 온톡 이미지는 개인정보를 흐림 처리한 안내용이다. 실제 제품 수용 시험을 대신하지 않는다. 현재 소스의 배포 스크립트는 문서·이미지를 함께 복사하지만 기존 ZIP을 재생성하지 않았다.
+330개 테스트, 합성 WPF 77개, Release 오류·경고 0개. 4차 최초 276개, 후속 쪽지 수정 286개, Home 재설계 292개, 조직도 개인별 쪽지 및 Home 3카드 개편 330개 결과를 구분한다. README의 Home 이미지는 가상 자료의 실제 WPF 렌더이며 기존 온톡 이미지는 개인정보를 흐림 처리한 안내용이다. 실제 제품 수용 시험을 대신하지 않는다. 현재 소스의 배포 스크립트는 문서·이미지를 함께 복사하지만 기존 ZIP을 재생성하지 않았다.

diff --git a/docs/implementation-status.md b/docs/implementation-status.md
@@ -1,4 +1,4 @@
-# 구현 현황 · 문맥별 사이드카
+# 구현 현황 · 문맥별 사이드카
 
 갱신: 2026-10-17, Asia/Seoul. 0.3.3 개발 소스와 Home·조직도 쪽지 기준이다. 사용 순서는 [사용자 매뉴얼](../README.md)과 [조직도 쪽지 안내](organization-personalized-notes.md)를 참고한다. 아래 0.1 기록은 과거 자료이며 현재 구현 상태와 구분한다.
 
@@ -20,8 +20,8 @@
 
 ## 최신 검증
 
-- 단위 테스트 308개 통과. 개인별 치환·파일 가져오기·수신자 대조·저장 및 기존 Home/쪽지 시험을 포함한다.
-- 합성 WPF 72개 화면: 개인화 작업의 일반/작은 화면을 포함한다. 360px 폭·480px 높이·125/150% 렌더, 그룹/친구 필터와 대화 Home 연결 검사. 실제 배율 도킹 시험과 다르다.
+- 단위 테스트 330개 통과. 개인별 치환·파일 가져오기·수신자 대조·저장 및 기존 Home/쪽지 시험을 포함한다.
+- 합성 WPF 77개 화면: 개인화 작업의 일반/작은 화면을 포함한다. 360px 폭·480px 높이·125/150% 렌더, 그룹/친구 필터와 대화 Home 연결 검사. 실제 배율 도킹 시험과 다르다.
 - Release 솔루션 빌드 오류·경고 0개.
 - 실제 제품 NoteWatcher→MSAA→파서: 친구, 조직도, 대화 목록, 일대일/그룹 대화, 로그인 전환, 쪽지 메뉴 확인. 당시 관찰 수는 전체/고유 개수 보장이 아니다.
 - 쪽지 메뉴는 /notes 우선, 경로 없는 화면은 받은·보낸·보관 세 탭을 함께 확인한다. 목록 로딩 중 감지와 메뉴 미확인 수동 대안을 제공한다.
